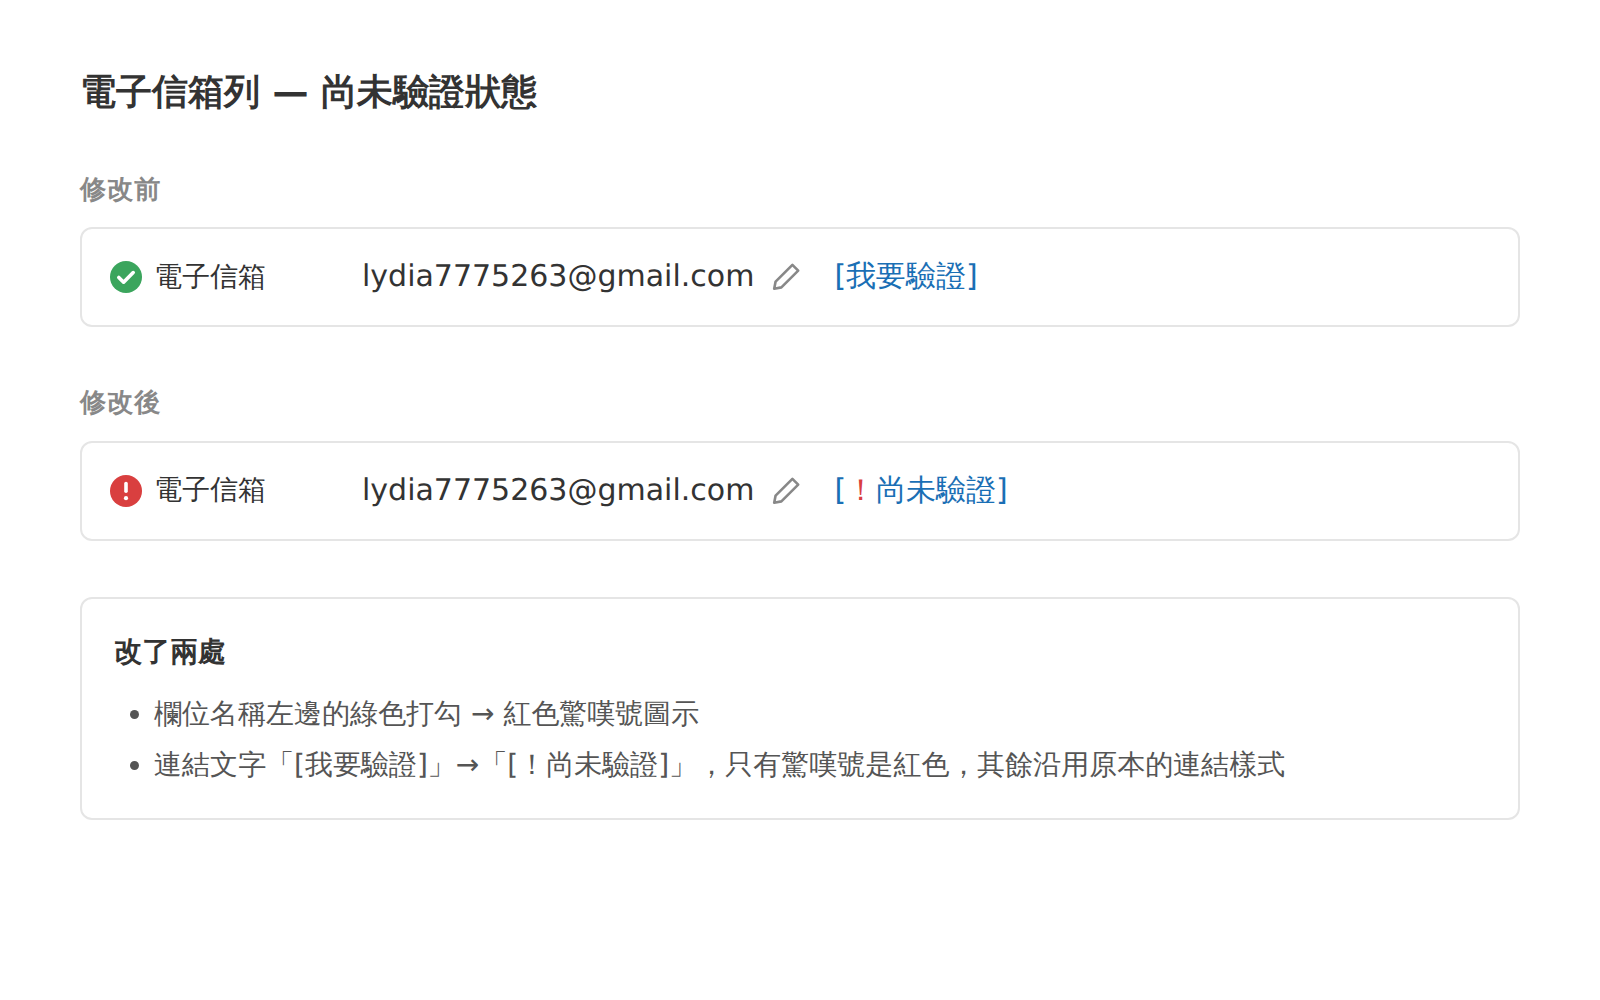
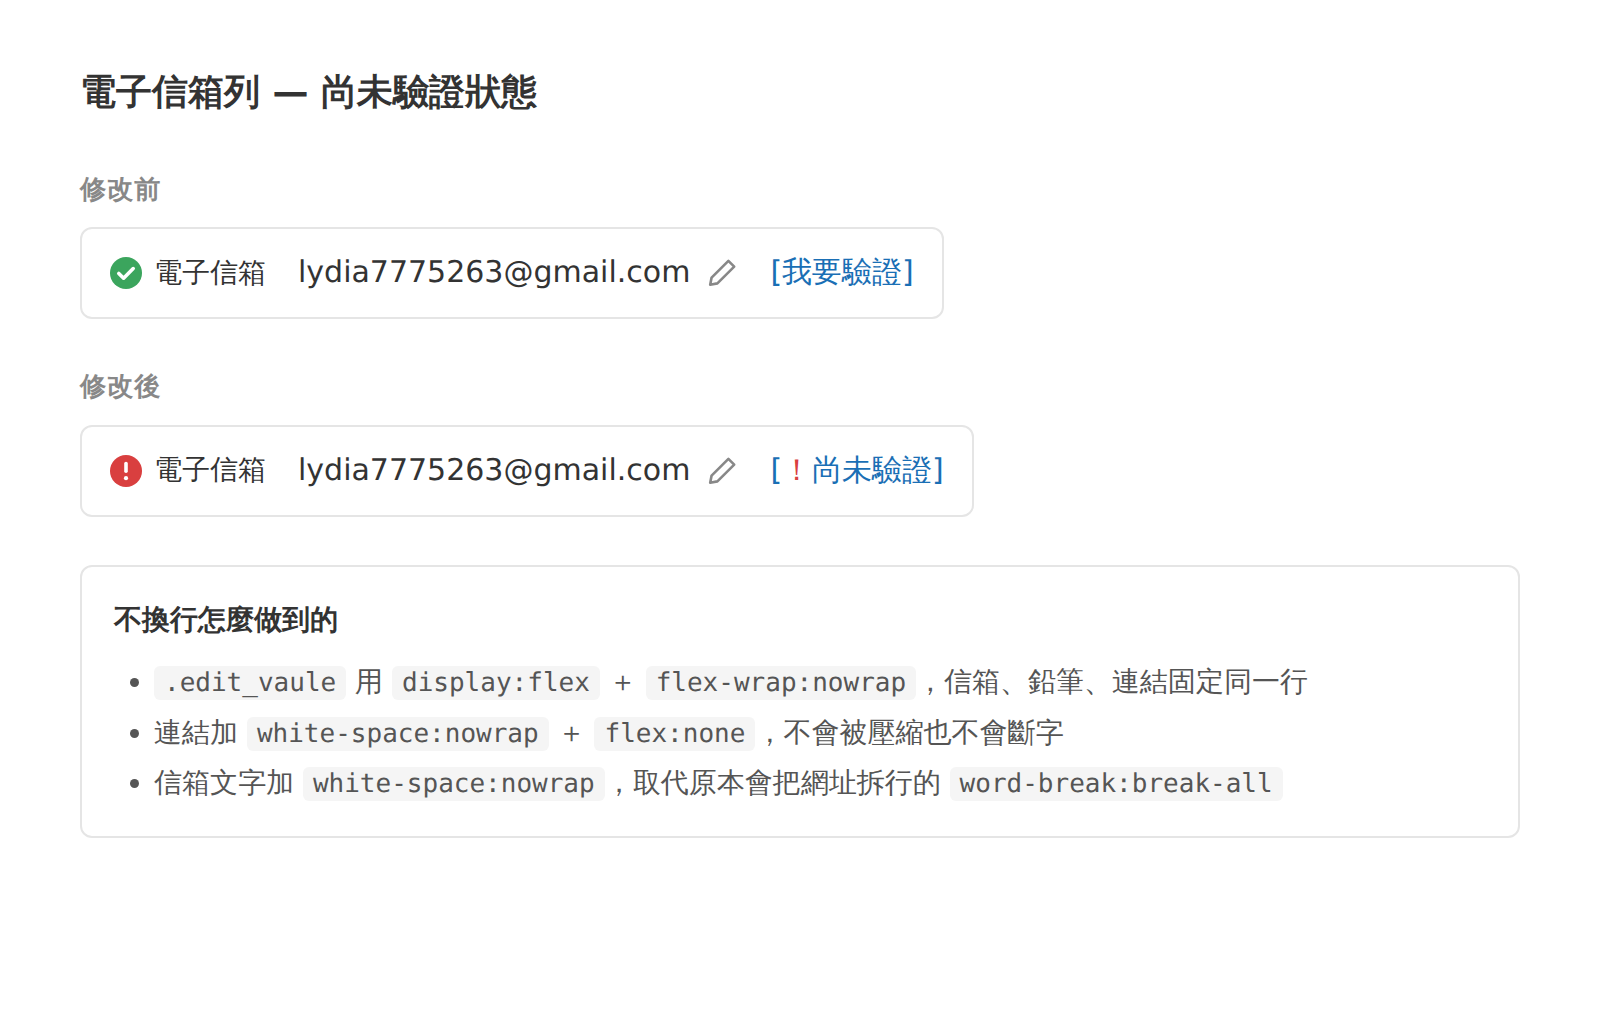
Keep the email row on a single line
The longer 尚未驗證 label pushed the link onto a second row. Pin the
value row to one line: nowrap on the flex container, on the address and
on the link itself, so the label can grow without wrapping.

Claude-Session: https://claude.ai/code/session_01JwHGsNgQp8ncjQBRYSgG7d

diff --git a/contact-email-unverified.html b/contact-email-unverified.html
@@ -23,23 +23,27 @@
     font-size:13px; font-weight:700; color:var(--text-grey);
     margin:0 0 8px; letter-spacing:.05em;
   }
-  .demo section{margin-bottom:28px;}
+  .demo section{margin-bottom:24px;}
 
   /* ── 欄位列本體 ───────────────────────────────── */
   .profile-info-row{
-    display:flex; align-items:center; gap:16px;
-    padding:12px 14px; border:1px solid var(--line); border-radius:6px;
+    display:inline-flex; align-items:center; gap:16px;
+    padding:10px 14px; border:1px solid var(--line); border-radius:6px;
   }
-  .profile-info-name{
-    display:flex; align-items:center; gap:6px;
-    flex:none; width:110px; color:var(--text);
-  }
+  .profile-info-name{display:flex; align-items:center; gap:6px; flex:none;}
   .profile-info-name .icon{flex:none; display:block;}
   .text--14{font-size:14px;}
   .text--15{font-size:15px;}
-  .profile-info-value{display:flex; align-items:center; gap:8px; flex:1; min-width:0;}
-  .edit_vaule{display:flex; align-items:center; gap:8px; flex-wrap:wrap;}
-  .edit_vaule_input{word-break:break-all;}
+  .profile-info-value{display:flex; align-items:center;}
+
+  /* ★ 關鍵：整列排在同一行，不換行 */
+  .edit_vaule{
+    display:flex;            /* flex 的預設就是 nowrap */
+    align-items:center;
+    gap:8px;
+    flex-wrap:nowrap;        /* 明寫一次，避免被其他樣式覆寫 */
+  }
+  .edit_vaule_input{white-space:nowrap;}
 
   /* 鉛筆（維持原本的編輯入口） */
   .edit_vaule_input-ctrl{
@@ -49,19 +53,27 @@
   .edit_vaule_input-ctrl:hover{color:var(--text);}
 
   /* ── 連結樣式：完全沿用原本的 ─────────────────── */
-  .link-h-underline{color:#1a6fb5; text-decoration:none;}
+  .link-h-underline{
+    color:#1a6fb5; text-decoration:none;
+    white-space:nowrap;      /* ★ 連結本身也不准斷行 */
+    flex:none;
+  }
   .link-h-underline:hover{text-decoration:underline;}
   .ml-8{margin-left:8px;}
 
-  /* 唯一新增：紅色驚嘆號 */
+  /* 紅色驚嘆號 */
   .text--danger{color:var(--danger);}
 
   .note{
-    margin-top:24px; padding:14px 16px; border:1px solid var(--line);
+    margin-top:20px; padding:14px 16px; border:1px solid var(--line);
     border-radius:6px; font-size:14px; color:#555; line-height:1.8;
   }
   .note b{color:var(--text);}
   .note ul{margin:6px 0 0; padding-left:20px;}
+  .note code{
+    background:#f5f5f5; padding:1px 5px; border-radius:3px;
+    font-size:13px; font-family:ui-monospace,Menlo,Consolas,monospace;
+  }
 </style>
 </head>
 <body>
@@ -122,16 +134,17 @@
   </section>
 
   <div class="note">
-    <b>改了兩處</b>
+    <b>不換行怎麼做到的</b>
     <ul>
-      <li>欄位名稱左邊的綠色打勾 → 紅色驚嘆號圖示</li>
-      <li>連結文字「[我要驗證]」→「[！尚未驗證]」，只有驚嘆號是紅色，其餘沿用原本的連結樣式</li>
+      <li><code>.edit_vaule</code> 用 <code>display:flex</code> ＋ <code>flex-wrap:nowrap</code>，信箱、鉛筆、連結固定同一行</li>
+      <li>連結加 <code>white-space:nowrap</code> ＋ <code>flex:none</code>，不會被壓縮也不會斷字</li>
+      <li>信箱文字加 <code>white-space:nowrap</code>，取代原本會把網址拆行的 <code>word-break:break-all</code></li>
     </ul>
   </div>
 </div>
 
 <!-- ══════════════════════════════════════════════════════════════
-     直接置換的一行（class、id、方括號、連結樣式全部照舊）
+     一、置換這一行（class、id、方括號、連結樣式全部照舊）
 
      舊：
      <a id="wantEmailValid" href="javascript:void(0);" title="我要驗證"
@@ -141,13 +154,26 @@
      <a id="wantEmailValid" href="javascript:void(0);" title="尚未驗證"
         class="modal_email_want_verification link-h-underline ml-8">[<span class="text--danger">！</span>尚未驗證]</a>
 
-     若專案沒有 .text--danger 這個 class，改成 inline style 即可：
-     [<span style="color:#d93f3f;">！</span>尚未驗證]
+     沒有 .text--danger 就用 inline style：[<span style="color:#d93f3f;">！</span>尚未驗證]
 
-     欄位左邊的圖示（原本是綠色打勾）：
+     二、欄位左邊的圖示
      舊：<i id="emailIsValidIcon" class="jb-db-check-circle" aria-hidden="true"></i>
      新：<i id="emailIsValidIcon" class="jb-db-warning-circle text--danger" aria-hidden="true"></i>
-     icon class 依專案 icon font 實際名稱調整；沒有對應字符就用本頁的 inline SVG。
+
+     三、讓整列不換行（文字變長後才需要）——加這段 CSS：
+
+     #valueEmail .edit_vaule{
+         display:flex;
+         align-items:center;
+         flex-wrap:nowrap;
+     }
+     #valueEmail .edit_vaule_input{white-space:nowrap;}
+     #valueEmail .modal_email_want_verification{
+         white-space:nowrap;
+         flex:none;
+     }
+
+     用 #valueEmail 前綴把影響範圍限制在這一列，不動到其他欄位。
      ══════════════════════════════════════════════════════════════ -->
 
 </body>
